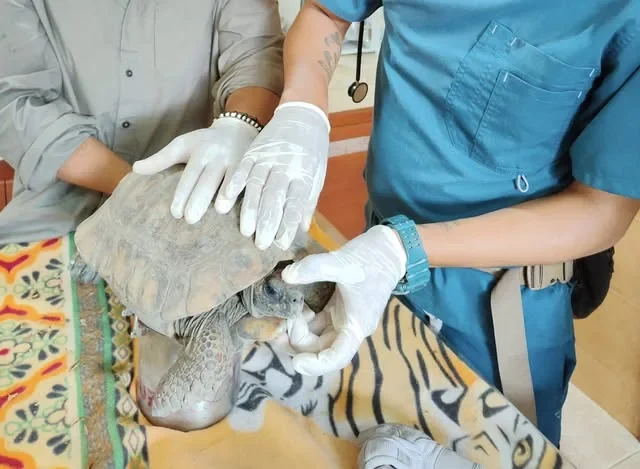
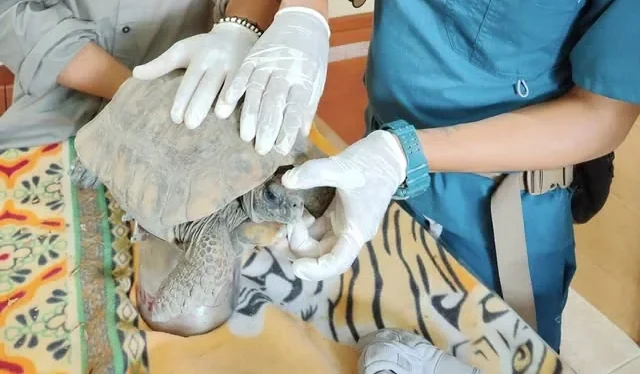
fix: los nombres de archivo mentian, y cinco carteles describian otra cosa
Dos frentes en la misma pasada.

1. La verificacion adversarial de los siete recortes (14 agentes, dos lentes
   por foto) dejo limpias solo dos. Tres se arreglaron recortando mas: un
   fragmento de cubrebocas de 14x9 px en la orilla del equino, un tatuaje
   botanico en el antebrazo del quelonio -- que en una generacion de 32
   identifica igual que una cara -- y el guante de carga con dientes expuestos
   sobre plancha de acero del perezoso, que se leia como necropsia.

   Dos no se arreglan recortando y salieron: la guacamaya tenia la cola en
   abanico y el monitor del mismo lado, asi que quitar la silueta desparramada
   se llevaba la unica senal clinica; y en el loro "el problema son las manos y
   la postura, y ambas estan en el nucleo de la imagen". Las portadas de
   anestesia y ortopedia de aves vuelven a su lamina de linea dibujada, que es
   lo que sus propias etiquetas ya describian.

2. Renderizar la galeria offline destapo que cinco de los nueve "carteles" no
   eran carteles: un logo pelon de la UAEH publicado como "cartel del diplomado
   en anestesia y cirugia", un logo de ConcerVet como el de nutricion, y una
   foto de una persona con un erizo -- rostro identificable -- como "cartel del
   curso de tarantulas". Los otros dos ilustraban la edicion equivocada. Y como
   los carteles no viven en el mosaico sino en la linea de ediciones
   historicas, no era una descripcion floja: era una edicion ilustrada con el
   cartel de otra.
[…]

diff --git a/redesign-v2/galeria.html b/redesign-v2/galeria.html
@@ -432,9 +432,6 @@
   </div>
 
   <article class="edicion" id="rehabilitacion-2019">
-   <div class="ed-img">
-    <img src="/media/cartel-rehabilitacion-fauna-2019.webp" alt="Cartel del diplomado en rehabilitación de fauna silvestre" width="1389" height="1965" loading="lazy" decoding="async">
-   </div>
    <div class="ed-txt">
     <span class="ed-num mono">Ed. 01</span>
     <h3>Diplomado en rehabilitación de fauna silvestre</h3>
@@ -446,7 +443,7 @@
 
   <article class="edicion" id="nutricion-2019">
    <div class="ed-img">
-    <img src="/media/cartel-nutricion-fauna-cautiverio.webp" alt="Cartel del diplomado en nutrición y alimentación de fauna silvestre en cautiverio" width="1107" height="666" loading="lazy" decoding="async">
+    <img src="/media/cartel-nutricion-2019.webp" alt="Cartel del diplomado en nutrición y alimentación de fauna silvestre en cautiverio, 2019" width="1389" height="1965" loading="lazy" decoding="async">
    </div>
    <div class="ed-txt">
     <span class="ed-num mono">Ed. 02</span>
@@ -468,9 +465,6 @@
   </article>
 
   <article class="edicion" id="ortopedia-aves-2018">
-   <div class="ed-img">
-    <img src="/media/cartel-ortopedia-aves-silvestres.webp" alt="Cartel del diplomado en ortopedia de aves silvestres" width="940" height="788" loading="lazy" decoding="async">
-   </div>
    <div class="ed-txt">
     <span class="ed-num mono">Ed. 04</span>
     <h3>Diplomado en ortopedia de aves silvestres</h3>
@@ -519,9 +513,6 @@
   </article>
 
   <article class="edicion" id="tarantulas-2014">
-   <div class="ed-img">
-    <img src="/media/cartel-curso-tarantulas-2014.webp" alt="Cartel del curso internacional de mantenimiento y reproducción de tarántulas" width="720" height="540" loading="lazy" decoding="async">
-   </div>
    <div class="ed-txt">
     <span class="ed-num mono">Ed. 08</span>
     <h3>Curso internacional de mantenimiento y reproducción de tarántulas</h3>
@@ -554,9 +545,6 @@
   </article>
 
   <article class="edicion" id="anestesia-cirugia-2013">
-   <div class="ed-img">
-    <img src="/media/cartel-anestesia-cirugia-2013.webp" alt="Cartel del diplomado en anestesia y cirugía de animales de compañía" width="884" height="527" loading="lazy" decoding="async">
-   </div>
    <div class="ed-txt">
     <span class="ed-num mono">Ed. 11</span>
     <h3>Diplomado en anestesia y cirugía de animales de compañía</h3>
@@ -622,23 +610,15 @@
     <figcaption>Lechuza de campanario sostenida durante la revisión clínica</figcaption>
    </figure>
    <figure class="gfoto">
-    <img src="/media/practica-equino-auscultacion.webp" alt="Exploración de un equino durante la práctica de imagenología" width="576" height="461" loading="lazy" decoding="async">
+    <img src="/media/practica-equino-auscultacion.webp" alt="Exploración de un equino durante la práctica de imagenología" width="576" height="449" loading="lazy" decoding="async">
     <figcaption>Exploración de un equino durante la práctica de imagenología</figcaption>
    </figure>
    <figure class="gfoto">
-    <img src="/media/practica-perezoso-auscultacion.webp" alt="Auscultación de un perezoso en la práctica de rehabilitación" width="474" height="529" loading="lazy" decoding="async">
+    <img src="/media/practica-perezoso-auscultacion.webp" alt="Auscultación de un perezoso en la práctica de rehabilitación" width="314" height="275" loading="lazy" decoding="async">
     <figcaption>Auscultación de un perezoso en la práctica de rehabilitación</figcaption>
    </figure>
    <figure class="gfoto">
-    <img src="/media/practica-guacamaya-monitoreo.webp" alt="Guacamaya bajo monitoreo durante la práctica de anestesia" width="649" height="297" loading="lazy" decoding="async">
-    <figcaption>Guacamaya bajo monitoreo durante la práctica de anestesia</figcaption>
-   </figure>
-   <figure class="gfoto">
-    <img src="/media/practica-loro-manejo.webp" alt="Manejo de un loro durante la revisión clínica" width="429" height="375" loading="lazy" decoding="async">
-    <figcaption>Manejo de un loro durante la revisión clínica</figcaption>
-   </figure>
-   <figure class="gfoto">
-    <img src="/media/practica-manejo-quelonio.webp" alt="Revisión de una tortuga durante la práctica" width="640" height="469" loading="lazy" decoding="async">
+    <img src="/media/practica-manejo-quelonio.webp" alt="Revisión de una tortuga durante la práctica" width="640" height="374" loading="lazy" decoding="async">
     <figcaption>Revisión de una tortuga durante la práctica</figcaption>
    </figure>
    <figure class="gfoto">

diff --git a/redesign-v2/curso-ortopedia-aves.html b/redesign-v2/curso-ortopedia-aves.html
@@ -892,10 +892,27 @@
  <span class="mono">Curso · Aves</span>
  <span class="visor-badge mono">Próxima edición</span>
  </div>
- <div class="art">
-<img src="/media/practica-loro-manejo.webp" alt="Manejo de un loro durante una revisión clínica"
-     width="429" height="375" fetchpriority="high" decoding="async">
-</div>
+ <div class="art" aria-hidden="true">
+ <!-- AVE / ala line-art (escala hero) -->
+ <svg viewBox="0 0 200 200" fill="none" stroke="#7A5797" stroke-width="2.2" stroke-linecap="round" stroke-linejoin="round" vector-effect="non-scaling-stroke">
+ <!-- cuerpo -->
+ <path d="M86 122 C78 110 80 96 92 90 C104 84 120 86 128 96 C134 104 134 116 126 124 C116 134 96 134 86 122 Z"/>
+ <!-- cabeza -->
+ <path d="M128 98 C140 92 150 92 156 98 C150 106 140 108 130 106"/>
+ <circle cx="142" cy="98" r="2.4" fill="#7A5797" stroke="none"/>
+ <path d="M156 98 L168 96"/>
+ <!-- ala extendida (plumas) -->
+ <path d="M92 96 C70 78 50 66 30 64"/>
+ <path d="M96 100 C76 86 56 78 36 78"/>
+ <path d="M100 106 C82 96 62 92 44 94"/>
+ <path d="M40 64 L30 64 L36 74"/>
+ <path d="M46 78 L36 78 L42 88"/>
+ <!-- cola -->
+ <path d="M86 122 L62 140"/><path d="M90 126 L70 148"/><path d="M96 128 L80 152"/>
+ <!-- patas -->
+ <path d="M104 132 L102 150"/><path d="M114 132 L116 150"/>
+ </svg>
+ </div>
  <figcaption class="visor-cap mono">
  <span>Aves · Ortopedia</span>
  <span>Lám. en preparación</span>

diff --git a/redesign-v2/curso-anestesia.html b/redesign-v2/curso-anestesia.html
@@ -877,10 +877,18 @@
  <span class="mono">Curso · Tapirus bairdii</span>
  <span class="visor-badge mono">En desarrollo</span>
  </div>
- <div class="art">
-<img src="/media/practica-guacamaya-monitoreo.webp" alt="Guacamaya bajo monitoreo durante la práctica de anestesia"
-     width="649" height="297" fetchpriority="high" decoding="async">
-</div>
+ <div class="art" aria-hidden="true">
+ <!-- TAPIR line-art (escala hero) -->
+ <svg viewBox="0 0 200 200" fill="none" stroke="#7A5797" stroke-width="2.2" stroke-linecap="round" stroke-linejoin="round" vector-effect="non-scaling-stroke">
+ <path d="M40 118 C40 92 60 78 86 78 L138 78 C166 78 182 90 190 106"/>
+ <path d="M190 106 C200 106 206 112 204 122 C198 130 190 130 184 122 C181 114 184 108 190 106 Z"/>
+ <circle cx="176" cy="98" r="2.6" fill="#7A5797" stroke="none"/>
+ <path d="M86 78 L80 150"/><path d="M112 80 L106 150"/>
+ <path d="M138 80 L144 150"/><path d="M166 86 L172 150"/>
+ <path d="M40 118 C30 128 32 142 44 148"/>
+ <path d="M150 86 L160 64"/>
+ </svg>
+ </div>
  <figcaption class="visor-cap mono">
  <span>Tapirus bairdii</span>
  <span>Próx. edición</span>

diff --git a/redesign-v2/diplomado-rehab.html b/redesign-v2/diplomado-rehab.html
@@ -1100,7 +1100,7 @@
  </div>
  <div class="art">
 <img src="/media/practica-perezoso-auscultacion.webp" alt="Auscultación de un perezoso durante la práctica del diplomado de rehabilitación"
-     width="474" height="529" loading="lazy" decoding="async">
+     width="314" height="275" loading="lazy" decoding="async">
 </div>
  <figcaption class="ap-cap mono">Choloepus sp. · práctica de rehabilitación</figcaption>
  </figure>

diff --git a/redesign-v2/lamina-viva.html b/redesign-v2/lamina-viva.html
@@ -1157,7 +1157,7 @@
  </div>
  <div class="art">
 <img src="/media/practica-perezoso-auscultacion.webp" alt="Auscultación de un perezoso durante la práctica del diplomado de rehabilitación"
-     width="474" height="529" loading="lazy" decoding="async">
+     width="314" height="275" loading="lazy" decoding="async">
 </div>
  <figcaption class="ap-cap mono">Choloepus sp. · práctica de rehabilitación</figcaption>
  </figure>

diff --git a/tests/test_content_contract.py b/tests/test_content_contract.py
@@ -1043,34 +1043,44 @@ class TestImagenesPublicadas(unittest.TestCase):
 
     PUBLICADAS = {
         # material propio de la escuela, sin personas
-        "cartel-anestesia-cirugia-2013", "cartel-contencion-quimica-anestesia",
-        "cartel-curso-tarantulas-2014", "cartel-diagnostico-terapeutica",
+        "cartel-contencion-quimica-anestesia", "cartel-diagnostico-terapeutica",
         "cartel-medicina-preventiva-2014", "cartel-medicina-preventiva-2017",
-        "cartel-nutricion-fauna-cautiverio", "cartel-ortopedia-aves-silvestres",
-        "cartel-rehabilitacion-fauna-2019",
+        "cartel-nutricion-2019",
         "fauna-cocodrilo-habitat", "fauna-grulla-coronada",
         "fauna-loro-alimentacion", "fauna-rapaz-alas-abiertas",
         # practicas reencuadradas en el animal, las manos o el instrumento: la
         # foto sigue siendo documental y real, pero ya no hay rostro que
         # identifique a nadie, asi que deja de ser dato personal.
         "practica-ecografo-consola", "practica-equino-auscultacion",
-        "practica-guacamaya-monitoreo", "practica-lechuza-auscultacion",
-        "practica-loro-manejo", "practica-manejo-quelonio",
+        "practica-lechuza-auscultacion", "practica-manejo-quelonio",
         "practica-perezoso-auscultacion",
     }
-    # Retiradas a proposito, no por descuido. Dos por como se leen fuera de su
-    # contexto clinico (el ave de alas extendidas sobre la mesa -- que estaba en
-    # la portada -- y el perezoso boca arriba inmovilizado). Cuatro porque lo
-    # unico que aportaban era el grupo entero: no hay recorte que las salve sin
-    # dejar rostros dentro.
+    # NINGUN nombre de archivo de esta lista es evidencia de lo que contiene:
+    # vienen del scraping del Wix y cinco mentian descaradamente (un logo de la
+    # UAEH se llamaba "cartel-anestesia-cirugia-2013", una foto de una persona
+    # con un erizo se llamaba "cartel-curso-tarantulas-2014"). Ninguna prueba
+    # automatica puede detectar eso. Las 14 se abrieron y se miraron una por una
+    # el 2026-08-03; cualquier alta futura exige lo mismo.
     RETIRADAS = {
+        # se leen mal fuera de su contexto clinico
         "practica-guacamaya-exploracion", "practica-perezoso-manejo",
+        "practica-guacamaya-monitoreo", "practica-loro-manejo",
+        # lo unico que aportaban era el grupo entero
         "practica-clinica-grupo", "practica-sesion-campo",
         "practica-equino-grupo", "practica-imagenologia-equipo",
+        # no eran carteles: dos logos de terceros y una foto con rostro
+        "cartel-anestesia-cirugia-2013", "cartel-nutricion-fauna-cautiverio",
+        "cartel-curso-tarantulas-2014",
+        # cartel real, pero sin edicion a la que pertenecer: anuncia
+        # "inscripciones abiertas" de 2024 y trae ocho logos de alianzas cuyo
+        # verbo exacto sigue sin fuente
+        "cartel-ortopedia-aves-silvestres", "cartel-rescate-rehabilitacion-2024",
     }
-    # Cambiaron de nombre porque el recorte les cambio el tema: ya no son "el
-    # grupo" ni "las alumnas", son la guacamaya y la consola.
-    RENOMBRADAS = {"practica-ave-clinica-grupo", "practica-ecografo-alumnas"}
+    # Cambiaron de nombre porque el nombre no describia el archivo.
+    RENOMBRADAS = {
+        "practica-ave-clinica-grupo", "practica-ecografo-alumnas",
+        "cartel-rehabilitacion-fauna-2019",
+    }
 
     def _en_disco(self):
         return {f.stem for f in (build.SRC / "media").glob("*.webp")}

diff --git a/INVESTIGACION.md b/INVESTIGACION.md
@@ -261,11 +261,54 @@ ecógrafo ya cuenta mejor). Salieron. Los dos huecos de portada que dejaron se l
 láminas de fauna que ya estaban en el archivo: el cocodrilo en su encierro para `/nosotros`, la
 grulla coronada para el curso de conducta.
 
-**Verificación independiente.** Como el mismo que eligió los recortes es el peor juez de si
-funcionaron, los siete se revisaron con catorce agentes: dos lentes por foto —un abogado de
-protección de datos buscando cualquier rasgo identificable hasta en las orillas, y un visitante
-frío preocupado por el bienestar animal— con la instrucción explícita de encontrar el problema,
-no de absolver.
+**Verificación independiente, y lo que encontró.** Como el mismo que eligió los recortes es el
+peor juez de si funcionaron, los siete se revisaron con catorce agentes: dos lentes por foto —un
+abogado de protección de datos buscando cualquier rasgo identificable hasta en las orillas, y un
+visitante frío preocupado por el bienestar animal— con la instrucción explícita de encontrar el
+problema, no de absolver. **Solo dos de las siete salieron limpias en ambos lentes.** Los cinco
+hallazgos, todos reales:
+
+| foto | lente | hallazgo |
+|---|---|---|
+| equino | identificabilidad | un fragmento de cubrebocas de **14×9 px** en la orilla superior |
+| quelonio | identificabilidad | un **tatuaje botánico de línea fina** en el antebrazo: en una generación de 32 personas eso identifica igual que una cara |
+| perezoso | lectura fría | guante de carga sobre el hocico con **dientes expuestos**, sin ojo visible, sobre plancha de acero vacía → se leía como necropsia |
+| guacamaya | lectura fría | cuerpo plano, cola en abanico, cabeza tapada → "¿esa guacamaya está muerta?" |
+| loro | lectura fría | ave rodeada por cuatro manos y una mancha roja que en miniatura se lee como sangre |
+
+Los tres primeros se arreglaron recortando más. Los dos últimos no: el verificador del loro lo
+dijo textual —"recortar no lo arregla: el problema son las manos y la postura, y ambas están en
+el núcleo de la imagen"— y la guacamaya tenía la cola y el monitor del mismo lado, así que
+cualquier recorte que quitara la silueta desparramada se llevaba también la única señal
+clínica. **Salieron las dos.** El hueco que dejaron en las portadas de anestesia y ortopedia de
+aves no se llenó con otra foto: esas dos páginas volvieron a su **lámina de línea dibujada**,
+que es lo que el diseño ya traía y lo que sus propias etiquetas describen ("Tapirus bairdii",
+"Curso · Aves").
+
+**Los nombres de archivo mentían (2026-08-03, tercera pasada).** Al renderizar la galería
+offline saltó algo que ninguna revisión de rostros iba a encontrar: **cinco de los nueve
+"carteles" no eran carteles**, y se publicaban con una descripción falsa en el `alt` —o sea, lo
+que lee Google y lo que anuncia un lector de pantalla:
+
+| se publicaba como | lo que realmente era |
+|---|---|
+| "Cartel del diplomado en anestesia y cirugía" | el **logo pelón de la UAEH** |
+| "Cartel del diplomado en nutrición y alimentación" | el **logo pelón de ConcerVet** |
+| "Cartel del curso internacional de tarántulas" | una **foto de una persona sosteniendo un erizo**, con el rostro identificable |
+| "Cartel del diplomado en ortopedia de aves" | el cartel de **rescate y rehabilitación, 3ª ed. 2024** |
+| "Cartel del diplomado en rehabilitación de fauna" | el cartel de **nutrición 2019** (la jirafa) |
+
+Y era peor de lo que parecía, porque los carteles no viven en el mosaico: **ilustran una línea
+de ediciones históricas, uno por edición**. No era una descripción floja, era una edición
+ilustrada con el cartel de otra. Cuatro ediciones se quedaron sin imagen y la de nutrición 2019
+recuperó la suya. El cartel del jaguar salió por partida doble: anuncia "inscripciones
+abiertas" de 2024 y arrastra una barra de ocho logos de alianzas cuyo verbo exacto sigue sin
+fuente.
+
+La lección para quien siga: **el nombre de un archivo del scraping no es evidencia de lo que
+contiene.** Ninguna prueba automática detecta esto —probé una regla de coincidencia entre el id
+de la edición y el slug del cartel y habría dejado pasar cuatro de los cinco—, así que la única
+defensa es abrir cada imagen y mirarla. Las 14 que quedan se abrieron una por una.
 
 También se excluyeron desde el principio los logos de terceros y la señalización de sedes
 ajenas (Zoológico de Cali, Bioparque Yana-Cocha).
@@ -282,14 +325,14 @@ saltaba al cargar cada foto. Ahora se sincronizan contra el archivo real y hay u
 la cabecera WebP a mano —sin Pillow, que no es dependencia del repo— para que no vuelva a
 desalinearse.
 
-**Imágenes.** Se rescataron del Wix vivo y se guardaron en `redesign-v2/media/` (20 archivos
+**Imágenes.** Se rescataron del Wix vivo y se guardaron en `redesign-v2/media/` (14 archivos
 tras el recorte y la depuración) en vez de enlazarlas a `static.wixstatic.com`: si se cancela la cuenta de Wix,
 ese CDN deja de servirlas y desaparece el único registro visual del archivo. De 59 imágenes
 descargadas se descartaron 33 por dos motivos explícitos: **stock del banco de Wix** (jaguar,
 flamenco, paisajes, gato, mujer con laptop — su licencia cubre el uso *dentro* de Wix, no
 fuera) y **logos de terceros** (CONCERVET, UAEH, YanaCocha, Tamandúa), porque el verbo exacto
-de las alianzas sigue sin fuente. Lo que se conserva es material propio: 9 carteles de
-convocatorias con marca CELEBIOS, 4 láminas de fauna y 7 fotos de prácticas docentes ya
+de las alianzas sigue sin fuente. Lo que se conserva es material propio: 5 carteles de
+convocatorias con marca CELEBIOS, 4 láminas de fauna y 5 fotos de prácticas docentes ya
 reencuadradas.
 
 ## Actualización 2026-08-02 21:30 — Rendimiento liberado, y NO hay histórico
